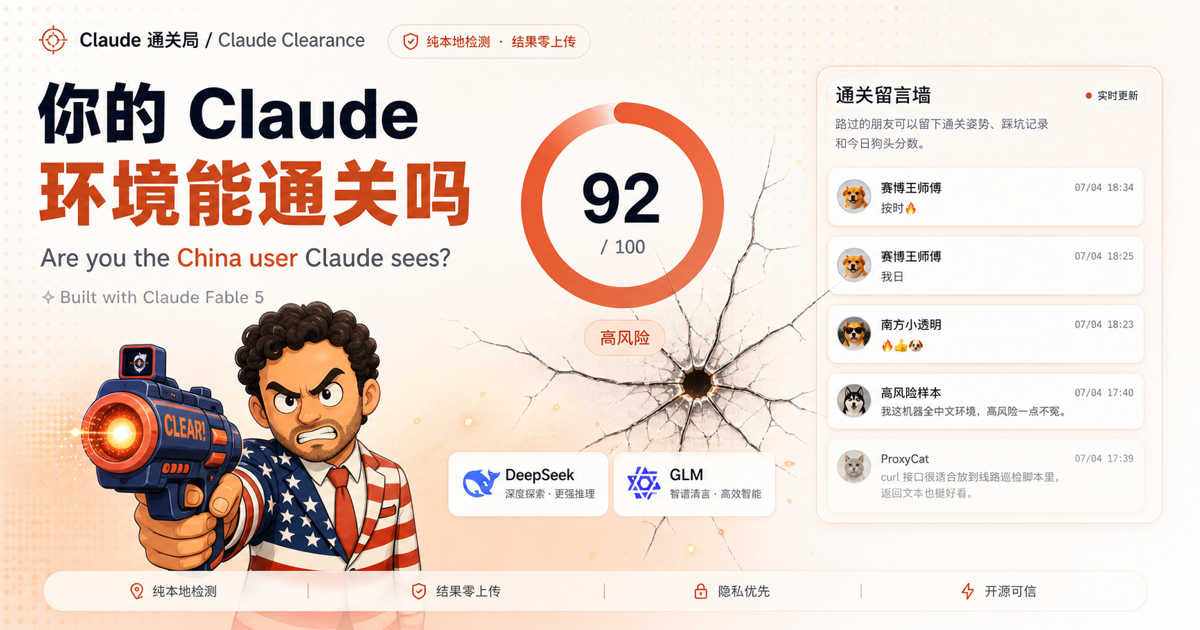
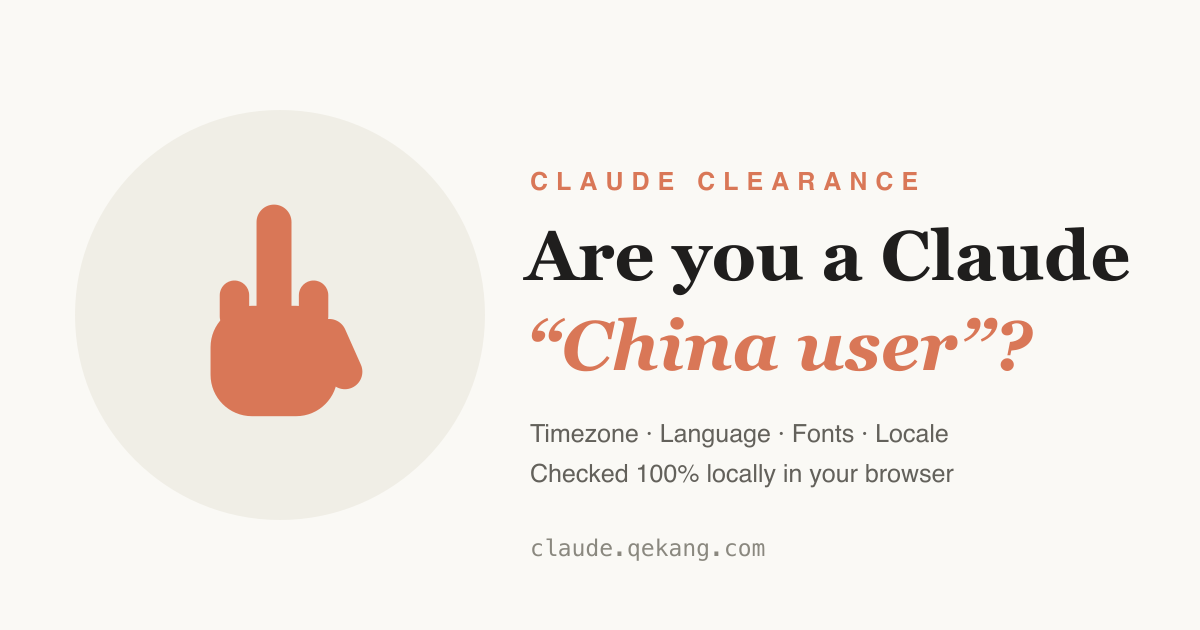
docs: remove upstream author mentions

diff --git a/src/i18n/ui.ts b/src/i18n/ui.ts
@@ -18,7 +18,7 @@ export const ui = {
       'One-click check of your browser timezone, language, Chinese fonts and locale to see if Claude Code would flag you as a China user. 100% local, nothing uploaded.',
 
     'nav.title': 'Claude Clearance',
-    'credit': 'Upgraded from FuckClaude with a local-first clearance matrix',
+    'credit': 'Local-first Claude clearance matrix',
 
     'hero.title': 'Can your Claude environment clear the gate?',
     'hero.badge.local': '100% local scan',
@@ -104,9 +104,8 @@ export const ui = {
 
     'footer.disclaimer':
       'For reference only, based on public reverse-engineering reports. Not an official statement or advice.',
-    'footer.license':
-      'Open sourced under the MIT License — redistributions must keep the original project notice.',
-    'footer.repo': 'Original project',
+    'footer.license': 'Open sourced under the MIT License.',
+    'footer.repo': 'GitHub',
 
     'share.copy': 'Copy link',
     'share.copied': 'Copied!',
@@ -210,8 +209,8 @@ export const ui = {
       '所有检测都在你的浏览器本地完成,扫描结果不会离开你的设备。留言墙只展示访客主动发布的昵称和留言内容。',
 
     'footer.disclaimer': '本工具仅供参考,基于公开逆向分析,不构成任何官方结论或建议。',
-    'footer.license': '基于 MIT 协议开源 —— 二次发布请保留原项目署名。',
-    'footer.repo': 'GitHub 原项目',
+    'footer.license': '基于 MIT 协议开源。',
+    'footer.repo': 'GitHub',
 
     'share.copy': '复制链接',
     'share.copied': '已复制！',

diff --git a/src/config/cn-models.ts b/src/config/cn-models.ts
@@ -1,13 +1,13 @@
 /**
  * Domestic (Chinese) LLM picks rendered by `src/components/CnModels.astro`
  * as a strip of name-only outbound links below the "How the check works"
- * section. Every link is tagged with the `utm_source=fuck-claude` referral source.
+ * section. Every link keeps the public campaign tag used by the site.
  */
 
 export interface CnModel {
   id: string;
   name: string;
-  /** Outbound link, tagged with the fuck-claude referral source. */
+  /** Outbound link. */
   url: string;
 }
 

diff --git a/README.md b/README.md
@@ -9,13 +9,13 @@
 <div align="center">
   <strong>本地优先的 Claude 环境与网络出口风险检测工具</strong>
   <br>
-  <em>把 FuckClaude 的浏览器本地评分升级为「本地环境 · 网络出口 · 证据修复」三层通关矩阵</em>
+  <em>把浏览器本地评分升级为「本地环境 · 网络出口 · 证据修复」三层通关矩阵</em>
   <br><br>
   <code>Astro</code> · <code>TypeScript</code> · <code>Vercel Function</code> · <code>AGENTS.md</code>，适合开源检测工具、AI 接手与二次产品化
   <br>
   <p>先解释风险，再给出可检查的修复方向</p>
   <br>
-  <p>如果这个项目对你有用，可以给原项目和本派生思路点个 Star，让更多开发者发现它。</p>
+  <p>如果这个项目对你有用，可以点个 Star，让更多开发者发现它。</p>
 </div>
 
 <div align="center">
@@ -45,7 +45,7 @@
 
 Claude 相关检测工具很容易混在一起：浏览器能读到的是本地环境，IP 检测站看到的是网络出口，Claude Code 公开逆向报告里强调的是系统时区与代理 hostname。把这些混成一个黑盒分数，会让使用者不知道自己到底该改系统设置、浏览器语言，还是网络线路。
 
-- 原 FuckClaude 侧重浏览器本地信号，隐私边界清晰，但网络出口维度较弱。
+- 传统本地检测工具侧重浏览器本地信号，隐私边界清晰，但网络出口维度较弱。
 - Claude AI IP 检测类工具侧重出口 IP、ASN、WebRTC、DNS、分流一致性，但浏览器本地环境解释不足。
 - 很多检测结论只给“高/中/低风险”，缺少来源、可信度、贡献分和修复建议。
 - 开源项目被二次接手时，常缺 `AGENTS.md`、graphify、升级报告和可复用资产目录。
@@ -68,9 +68,9 @@ pnpm dev
 
 ## 项目概述
 
-`Claude 通关局` 是从上游开源项目 `LinXiaoTao/FuckClaude` 派生并升级的 Claude 环境风险检测平台。它保留原项目“浏览器本地检测、不上传扫描结果”的核心逻辑，同时参考 `ipinfo.cv/claude-ai-check` 这类 Claude AI IP 检测工具的公开检查维度，把出口 IP、ASN、WebRTC、DNS、分流一致性独立为网络出口层，最终形成面向开发者、代理线路使用者和 AI 工程团队的通关矩阵。
+`Claude 通关局` 是一个本地优先的 Claude 环境风险检测平台。它以“浏览器本地检测、不上传扫描结果”为核心边界，同时参考 `ipinfo.cv/claude-ai-check` 这类 Claude AI IP 检测工具的公开检查维度，把出口 IP、ASN、WebRTC、DNS、分流一致性独立为网络出口层，最终形成面向开发者、代理线路使用者和 AI 工程团队的通关矩阵。
 
-> **English summary**: Claude Clearance is a local-first Claude environment and network-exit risk checker forked from FuckClaude. It preserves the browser-only scoring baseline and adds a productized clearance matrix for local signals, network exit checks, evidence, and fix guidance.
+> **English summary**: Claude Clearance is a local-first Claude environment and network-exit risk checker. It keeps a browser-only scoring baseline and adds a productized clearance matrix for local signals, network exit checks, evidence, and fix guidance.
 >
 > If this saves you time, a Star helps others find it.
 
@@ -78,7 +78,7 @@ pnpm dev
 
 - **本地优先检测**：系统时区、浏览器语言、中文字体、Intl Locale、时区偏移和 UA/Emoji 风格在浏览器端计算，默认不上传扫描结果。
 - **网络出口分层**：出口 IP、国家、ASN、WebRTC 泄漏、DNS 泄漏和多区域分流只作为网络侧检查层规划，避免混淆本地信号和服务端可见信号。
-- **证据化评分**：沿用原项目 100 分权重模型，后续扩展时每项信号都必须说明来源、可信度、贡献分和修复建议。
+- **证据化评分**：采用 100 分权重模型，后续扩展时每项信号都必须说明来源、可信度、贡献分和修复建议。
 - **双语视觉资产**：中文根 README 使用 `zh-CN` 资产，英文 README 使用 `en` 资产，顶部介绍图、架构图、UI 图、流程图均已生成。
 - **AI 接手友好**：通过 `platform-project-skill` 补齐接手文件、升级报告、graphify 图谱和资产 manifest，方便后续 Claude / Codex / Cursor 继续开发。
 
@@ -87,7 +87,7 @@ pnpm dev
 | 方案 | 本地浏览器信号 | 网络出口维度 | 证据解释 | 双语 README/图片 | AI 接手层 |
 |---|:---:|:---:|:---:|:---:|:---:|
 | **Claude 通关局** | 是 | 规划为独立层 | 是 | 是 | 是 |
-| FuckClaude 原项目 | 是 | 有服务端估算但较轻 | 部分 | 中英同页 | 否 |
+| 本地浏览器基线方案 | 是 | 有服务端估算但较轻 | 部分 | 中英同页 | 否 |
 | Claude AI IP 检测站 | 部分 | 是 | 取决于站点 | 不确定 | 否 |
 | 手工排查时区/代理 | 分散 | 分散 | 否 | 否 | 否 |
 
@@ -283,7 +283,7 @@ graphify-out/                  代码图谱报告
 
 ### 安全边界
 
-保留原项目 MIT 署名与上游链接；不要删除原作者授权信息。不要把真实密钥、代理地址、内网地址写入 README 或示例。
+不要把真实密钥、代理地址、内网地址写入 README 或示例；公开文档只保留当前项目必要的许可证与仓库信息。
 
 ## 开发与验证
 
@@ -359,13 +359,12 @@ platform-project-skill/scripts/check-project-baseline.sh --existing .
 
 | 版本 | 日期 | 说明 |
 |---|---|---|
-| `0.1.0` | 2026-07-04 | 从 FuckClaude 派生，补齐 Claude 通关局品牌、通关矩阵 UI、AI 接手层、双语图片资产与 README 母版结构 |
+| `0.1.0` | 2026-07-04 | 补齐 Claude 通关局品牌、通关矩阵 UI、AI 接手层、双语图片资产与 README 母版结构 |
 
 更多变更见 [CHANGELOG.md](./CHANGELOG.md)。
 
 ## 致谢
 
-- `LinXiaoTao/FuckClaude`：原始浏览器本地检测工具与评分逻辑来源。
 - [Astro](https://astro.build)：静态站点与 Vercel Function 构建能力。
 - `platform-project-skill`：项目接手层、README 规则和资产校验流程。
 
@@ -381,10 +380,9 @@ platform-project-skill/scripts/check-project-baseline.sh --existing .
 
 ## 许可证
 
-本项目继承上游 MIT License。二次发布或再分发时必须保留上游项目 `LinXiaoTao/FuckClaude` 的版权与许可证声明。
+本项目基于 MIT License 开源。
 
 ## 作者
 
 - 升级与项目接手：`[email redacted]`
 - GitHub：<https://github.com/qierkang>
-- 上游作者：[`LinXiaoTao`](https://github.com/LinXiaoTao)

diff --git a/docs/README_en.md b/docs/README_en.md
@@ -9,7 +9,7 @@
 <div align="center">
   <strong>Playful local-first Claude environment checker with a community wall and SEO/GEO indexing.</strong>
   <br>
-  <em>An upgraded FuckClaude fork that separates local browser signals, server-side estimates, evidence, and product handoff assets.</em>
+  <em>A local-first checker that separates local browser signals, server-side estimates, evidence, and product handoff assets.</em>
   <br><br>
   <code>Astro</code> · <code>TypeScript</code> · <code>Vercel Function</code> · <code>PostgreSQL</code> · <code>AGENTS.md</code>
   <br>
@@ -45,7 +45,7 @@
 
 Claude-related diagnostic tools often mix three different layers: what the browser can see locally, what an IP check service can see from the network, and what public reverse-engineering reports describe for Claude Code. When these are collapsed into one opaque score, users cannot tell whether they should review OS settings, browser language, proxy routes, DNS, or ASN exposure.
 
-- FuckClaude is strong at local browser signals and privacy boundaries, but its network-exit layer is lighter.
+- Local browser checkers are strong at privacy boundaries, but their network-exit layer is usually lighter.
 - Claude AI IP check tools focus on exit IP, ASN, WebRTC, DNS, and route consistency, but local browser evidence is usually less explicit.
 - Many tools only show low, medium, or high risk without source, confidence, contribution, or fix direction.
 - Forked projects are hard for AI agents to continue without `AGENTS.md`, graph reports, upgrade notes, and reusable assets.
@@ -55,7 +55,7 @@ Claude-related diagnostic tools often mix three different layers: what the brows
 
 ## Overview
 
-`Claude Clearance` is an upgraded fork of the upstream open-source project `LinXiaoTao/FuckClaude`. It preserves the original browser-local scoring baseline and adds a productized clearance matrix inspired by Claude AI IP check tools such as `ipinfo.cv/claude-ai-check`: local environment, network exit, risk score, evidence, and fix guidance.
+`Claude Clearance` is a local-first Claude environment risk checker. It keeps a browser-local scoring baseline and adds a productized clearance matrix inspired by Claude AI IP check tools such as `ipinfo.cv/claude-ai-check`: local environment, network exit, risk score, evidence, and fix guidance.
 
 If this saves you time, a Star helps others find it.
 
@@ -72,7 +72,7 @@ If this saves you time, a Star helps others find it.
 | Option | Local browser signals | Network exit layer | Evidence explanation | Bilingual README/images | AI handoff |
 |---|:---:|:---:|:---:|:---:|:---:|
 | **Claude Clearance** | Yes | Planned as a separate layer | Yes | Yes | Yes |
-| Original FuckClaude | Yes | Light server estimate | Partial | Mixed in one README | No |
+| Local browser baseline | Yes | Light server estimate | Partial | Mixed in one README | No |
 | Claude AI IP check sites | Partial | Yes | Site-dependent | Unknown | No |
 | Manual timezone/proxy checks | Scattered | Scattered | No | No | No |
 
@@ -269,7 +269,7 @@ Chinese images live under `assets/.../zh-CN/`; English images live under `assets
 
 ### Safety Boundaries
 
-Keep the upstream MIT attribution and links. Do not write real secrets, proxy endpoints, internal IPs, or private routes into README examples.
+Do not write real secrets, proxy endpoints, internal IPs, or private routes into README examples. Public docs should keep only the current project license and repository information.
 
 ## Validation
 
@@ -295,7 +295,7 @@ Pass criteria:
 
 | Item | Status |
 |---|---|
-| Project stage | `0.1.0` upgraded fork |
+| Project stage | `0.1.0` public release |
 | scaffold | Non-invasive upgrade via `platform-project-skill` |
 | assets | `STATE=asset_done` |
 | validation | `STATE=validation_done` |
@@ -345,13 +345,12 @@ Read `graphify-out/GRAPH_REPORT.md`, then inspect `src/config/signals.ts`, `src/
 
 | Version | Date | Notes |
 |---|---|---|
-| `0.1.0` | 2026-07-04 | Forked from FuckClaude; added Claude Clearance branding, clearance matrix UI, AI handoff layer, bilingual image assets, and template-style README structure |
+| `0.1.0` | 2026-07-04 | Added Claude Clearance branding, clearance matrix UI, AI handoff layer, bilingual image assets, and template-style README structure |
 
 See [CHANGELOG.md](../CHANGELOG.md) for future updates.
 
 ## Acknowledgements
 
-- `LinXiaoTao/FuckClaude`: upstream browser-local detection and scoring baseline.
 - [Astro](https://astro.build): static site and Vercel Function build support.
 - `platform-project-skill`: AI handoff workflow, README rules, and asset validation.
 
@@ -367,10 +366,9 @@ See [CHANGELOG.md](../CHANGELOG.md) for future updates.
 
 ## License
 
-This project inherits the upstream MIT License. Redistributions must preserve the copyright and license notice of the upstream project `LinXiaoTao/FuckClaude`.
+This project is open sourced under the MIT License.
 
 ## Author
 
 - Upgrade and handoff: `[email redacted]`
 - GitHub: <https://github.com/qierkang>
-- Upstream author: [`LinXiaoTao`](https://github.com/LinXiaoTao)

diff --git a/docs/documents/report-检测逻辑分析.md b/docs/documents/report-检测逻辑分析.md
@@ -1,8 +1,8 @@
 # Claude 检测逻辑分析
 
-## FuckClaude 当前逻辑
+## 本地检测当前逻辑
 
-原项目是一个 Astro 单页工具，核心检测在 `src/config/signals.ts` 与 `src/scripts/detect.ts`：
+当前项目是一个 Astro 单页工具，核心检测在 `src/config/signals.ts` 与 `src/scripts/detect.ts`：
 
 - 浏览器本地检测 6 个信号：系统时区、浏览器语言、中文字体、Intl Locale、时区偏移、Emoji/UA 风格。
 - 权重合计 100：时区 30、语言 24、字体 20、Intl 10、时区偏移 8、Emoji 8。
@@ -23,11 +23,11 @@
 - 多区域出口与分流一致性。
 - 浏览器语言、时区、系统区域设置。
 
-这些维度与 FuckClaude 的本地环境检测互补：前者偏网络出口，后者偏浏览器/系统环境。
+这些维度与本地环境检测互补：前者偏网络出口，后者偏浏览器/系统环境。
 
 ## 升级版设计
 
-`Claude 通关局` 保留原项目本地优先的隐私边界，同时把 UI 升级为三层通关矩阵：
+`Claude 通关局` 保留本地优先的隐私边界，同时把 UI 升级为三层通关矩阵：
 
 - 本地环境：时区、语言、字体、Intl、Emoji/UA。
 - 网络出口：出口 IP、ASN、国家、WebRTC、DNS、分流一致性。

diff --git a/docs/ai-upgrade/report-老项目AI能力升级.md b/docs/ai-upgrade/report-老项目AI能力升级.md
@@ -36,7 +36,7 @@
 - src/i18n/ui.ts: added Claude Clearance bilingual copy
 - src/layouts/BaseLayout.astro: adjusted product palette
 - src/pages/api/check.ts: updated response app name
-- package.json: updated fork project name and description
+- package.json: updated project name and description
 - graphify-out/GRAPH_REPORT.md: generated code graph report
 
 ## Assets Added
@@ -65,10 +65,10 @@
 
 - 当前升级版 UI 已纳入网络出口检查维度，但真实 WebRTC/DNS/ASN 检测尚未接入执行逻辑；后续实现时必须明确提示会访问服务端或第三方 IP API。
 - `/api/check` 依赖 Vercel geo headers，本地或非 Vercel 部署只能得到降级估算。
-- 原项目 README 中保留了原作者、原域名和赞助信息，后续公开发布前应确认是否继续保留这些外链。
+- 公开 README 中应只保留当前项目必要链接，避免展示无关外链。
 
 ## Next Recommendations
 
 - 将网络出口检测拆成显式 opt-in：出口 IP/ASN、WebRTC 泄漏、DNS 泄漏、分流一致性。
-- 将服务端估算接口的站点域名从原上游部署域名切换为新仓库对应的临时站点地址。
+- 将服务端估算接口的站点域名统一切换为当前项目正式站点地址。
 - 发布前运行 README gate、构建、截图和端到端冒烟。